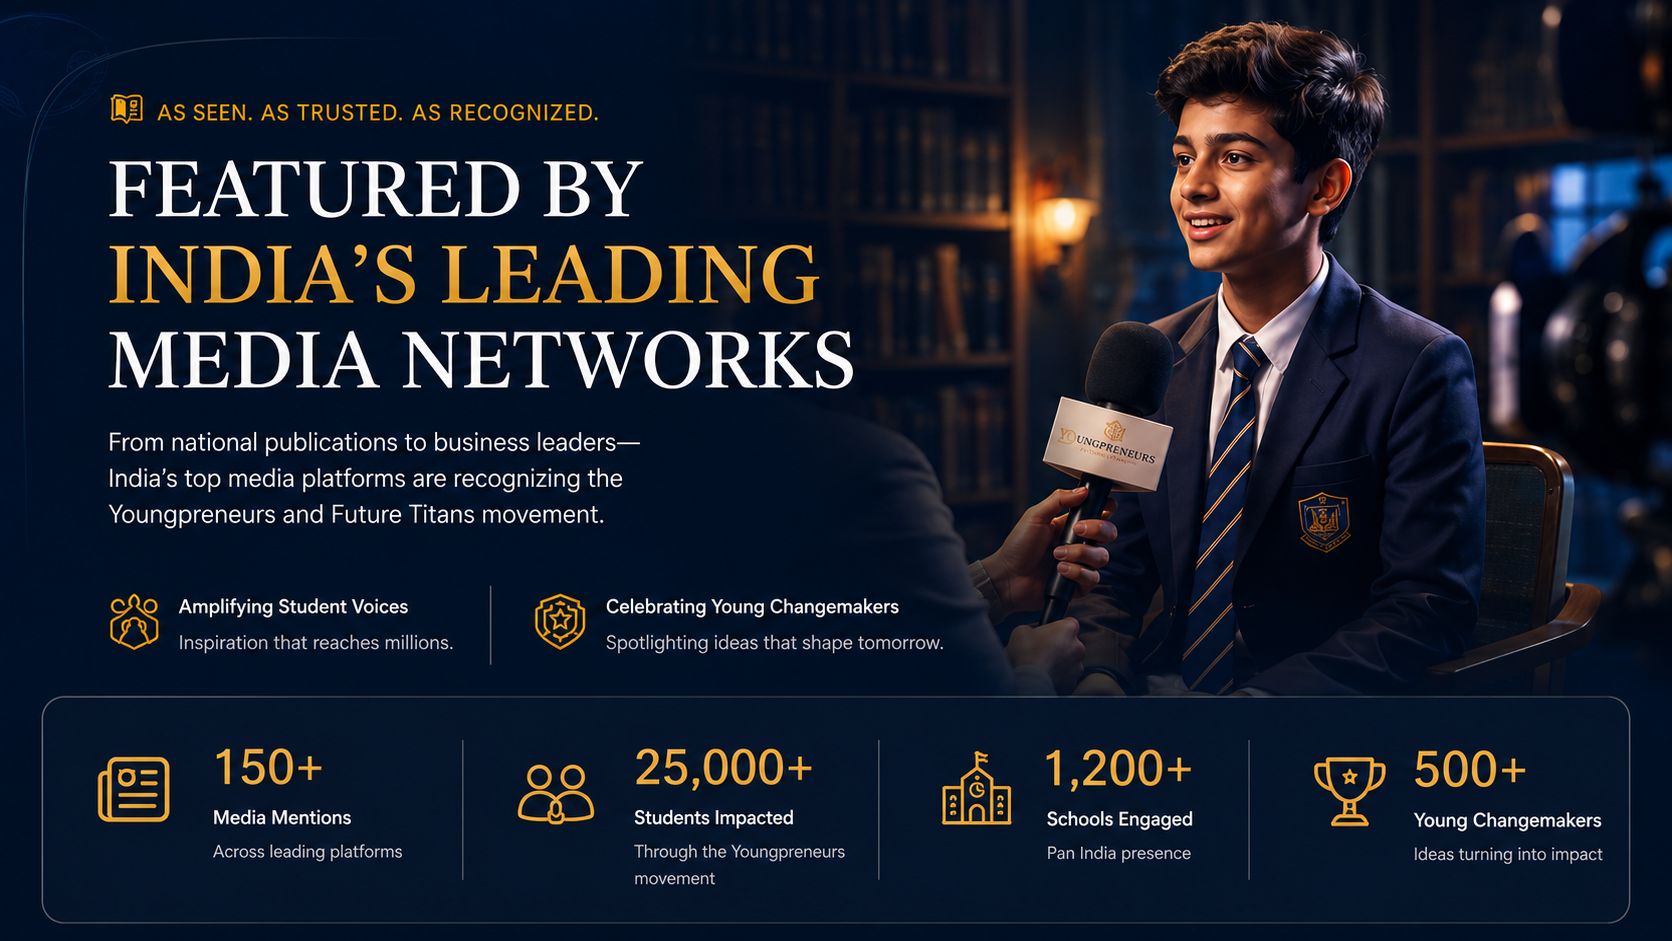
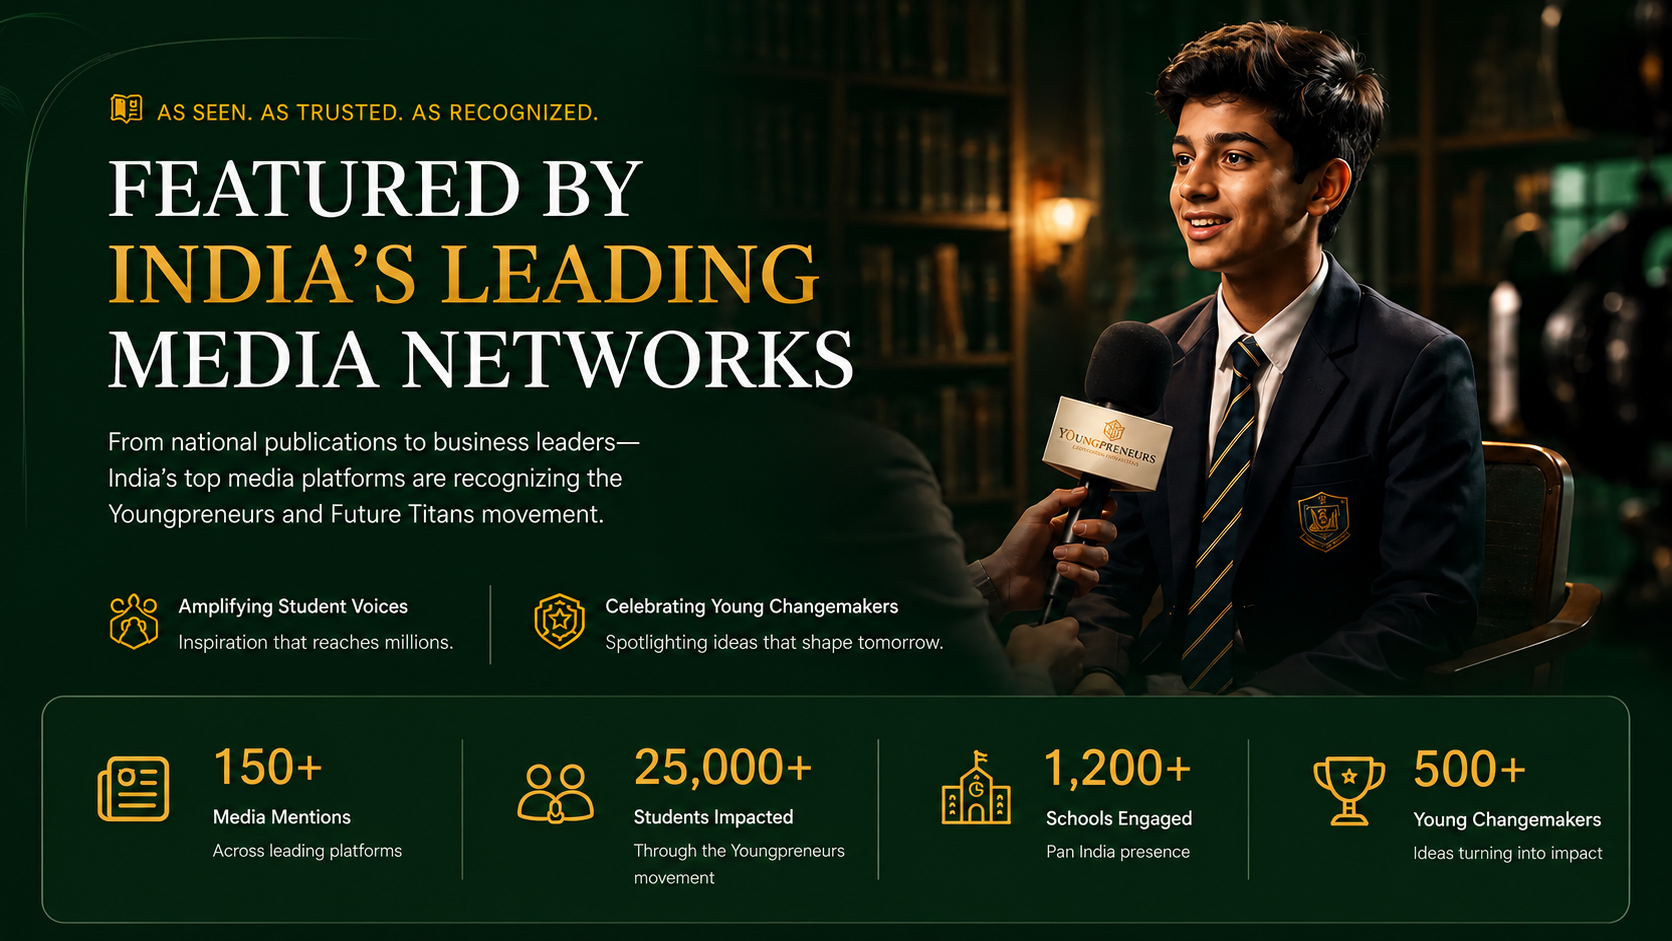
updates

diff --git a/app/page.js b/app/page.js
@@ -433,7 +433,7 @@ export default function Landing() {
         <div className="max-w-7xl mx-auto px-4 sm:px-6 lg:px-8">
           <Reveal>
             <div className="text-center mb-12">
-              <h2 className={`${playfair.className} text-3xl sm:text-4xl font-bold text-[#1B2A4A] mb-4`}>
+              <h2 className={`${playfair.className} text-3xl sm:text-4xl font-bold text-[#123c1f] mb-4`}>
                 Meet the Minds Behind the Program
               </h2>
               <p className="text-gray-600 max-w-2xl mx-auto">
@@ -469,7 +469,7 @@ export default function Landing() {
         <div className="max-w-7xl mx-auto px-4 sm:px-6 lg:px-8">
           <Reveal>
             <div className="text-center mb-12 lg:mb-16">
-              <h2 className={`${playfair.className} text-3xl sm:text-4xl font-bold text-[#1B2A4A] mb-3`}>
+              <h2 className={`${playfair.className} text-3xl sm:text-4xl font-bold text-[#123c1f] mb-3`}>
                 What Your Child Will Gain
               </h2>
               <p className="text-gray-500 text-sm sm:text-base">Class 8–12 · Building the thinking, confidence, and capability tomorrow&apos;s world demands</p>
@@ -525,7 +525,7 @@ export default function Landing() {
           <div className="grid lg:grid-cols-3 gap-8 lg:gap-12 items-center">
             <Reveal>
               <div>
-                <h2 className={`${playfair.className} text-3xl sm:text-4xl lg:text-[2.5rem] font-bold text-[#1B2A4A] leading-tight mb-6`}>
+                <h2 className={`${playfair.className} text-3xl sm:text-4xl lg:text-[2.5rem] font-bold text-[#123c1f] leading-tight mb-6`}>
                   Growth You Can See.<br />
                   Progress You Can Trust.
                 </h2>
@@ -642,7 +642,7 @@ export default function Landing() {
         <div className="max-w-7xl mx-auto px-4 sm:px-6 lg:px-8">
           <Reveal>
             <div className="text-center mb-12">
-              <h2 className={`${playfair.className} text-3xl sm:text-4xl font-bold text-[#1B2A4A] mb-4`}>
+              <h2 className={`${playfair.className} text-3xl sm:text-4xl font-bold text-[#123c1f] mb-4`}>
                 Real Stories. Real Impact.
               </h2>
             </div>
@@ -677,7 +677,7 @@ export default function Landing() {
       <section className="py-16 lg:py-24 bg-[#FAFAFA]">
         <div className="max-w-7xl mx-auto px-4 sm:px-6 lg:px-8">
           <Reveal>
-            <h2 className={`${playfair.className} text-3xl sm:text-4xl font-bold text-[#1B2A4A] text-center mb-12`}>
+            <h2 className={`${playfair.className} text-3xl sm:text-4xl font-bold text-[#123c1f] text-center mb-12`}>
               Questions Parents Ask (We Answer)
             </h2>
           </Reveal>

diff --git a/app/media/page.js b/app/media/page.js
@@ -21,7 +21,7 @@ export default function Media() {
     <div className="min-h-screen bg-white">
       <PublicNavbar />
 
-      <section className="relative w-full overflow-hidden pt-16 lg:pt-[72px] bg-[#0A101D]">
+      <section className="relative w-full overflow-hidden pt-16 lg:pt-[72px] bg-[#0A1A12]">
         <Image src="/images/yp/media-hero-new.png" alt="Media & Press Hero" width={1920} height={1080} className="w-full h-auto object-cover" priority />
       </section>
 
@@ -33,7 +33,7 @@ export default function Media() {
               <span className="text-[#C8960C] text-xs font-bold tracking-widest uppercase">IN THE SPOTLIGHT</span>
               <div className="w-8 h-px bg-[#C8960C]"></div>
             </div>
-            <h2 className="text-4xl lg:text-5xl font-serif text-[#1B2A4A] mb-6">Media & Press</h2>
+            <h2 className="text-4xl lg:text-5xl font-serif text-[#123c1f] mb-6">Media & Press</h2>
             <p className="text-gray-600 text-base max-w-2xl mx-auto leading-relaxed">
               Explore how leading media houses are covering the stories, achievements, and impact of Youngpreneurs and Future Titans.
             </p>
@@ -56,7 +56,7 @@ export default function Media() {
                 </div>
                 
                 {/* Description */}
-                <p className="text-[#1B2A4A] text-[15px] leading-relaxed mb-6 flex-grow font-medium">
+                <p className="text-[#123c1f] text-[15px] leading-relaxed mb-6 flex-grow font-medium">
                   {item.desc}
                 </p>
                 

diff --git a/app/future-titans/page.js b/app/future-titans/page.js
@@ -29,12 +29,12 @@ export default function FutureTitans() {
           priority
         />
         {/* Overlay for text readability */}
-        <div className="absolute inset-0 bg-gradient-to-r from-[#0a1a3a] via-[#0a1a3a]/75 to-transparent" />
+        <div className="absolute inset-0 bg-gradient-to-r from-[#0a1a12] via-[#0a1a12]/75 to-transparent" />
 
         <div className="max-w-7xl mx-auto relative z-10 w-full">
           {/* Badges */}
           <div className="flex flex-wrap gap-3 items-center mb-6">
-            <span className="rounded-full bg-white px-5 py-2 text-xs font-bold text-[#1B2A4A] shadow-sm">Youngpreneurs Presents</span>
+            <span className="rounded-full bg-white px-5 py-2 text-xs font-bold text-[#123c1f] shadow-sm">Youngpreneurs Presents</span>
             <span className="rounded-full bg-[#C8960C] px-5 py-2 text-xs font-bold text-white shadow-sm">National Challenge</span>
           </div>
 
@@ -419,7 +419,7 @@ export default function FutureTitans() {
               priority
             />
             {/* Overlay for readability */}
-            <div className="absolute inset-0 bg-gradient-to-r from-[#051934]/95 via-[#051934]/80 to-[#051934]/30" />
+            <div className="absolute inset-0 bg-gradient-to-r from-[#051912]/95 via-[#051912]/80 to-[#051912]/30" />
 
             <div className="relative z-10 px-8 sm:px-12 lg:px-16 py-12 w-full">
               <div className="max-w-lg">

diff --git a/app/for-parents/page.js b/app/for-parents/page.js
@@ -185,7 +185,7 @@ export default function ForParents() {
 
       {/* 4. Bottom CTA Section */}
       <section className="max-w-[1400px] mx-auto px-4 sm:px-6 lg:px-8 py-16 lg:py-24">
-        <div className="relative rounded-[2.5rem] overflow-hidden w-full bg-[#051934] min-h-[400px] flex items-center">
+        <div className="relative rounded-[2.5rem] overflow-hidden w-full bg-[#051912] min-h-[400px] flex items-center">
           {/* Background Image */}
           <Image
             src="/images/yp/for-parents-cta.png"
@@ -194,7 +194,7 @@ export default function ForParents() {
             alt="Child looking at future"
           />
           {/* Overlay to ensure text readability */}
-          <div className="absolute inset-0 bg-gradient-to-r from-[#051934] via-[#051934]/90 to-transparent"></div>
+          <div className="absolute inset-0 bg-gradient-to-r from-[#051912] via-[#051912]/90 to-transparent"></div>
 
           <div className="relative z-10 p-10 lg:p-16 max-w-2xl w-full">
             <h2 className="text-3xl sm:text-4xl lg:text-5xl font-bold text-white leading-[1.2] mb-6">
